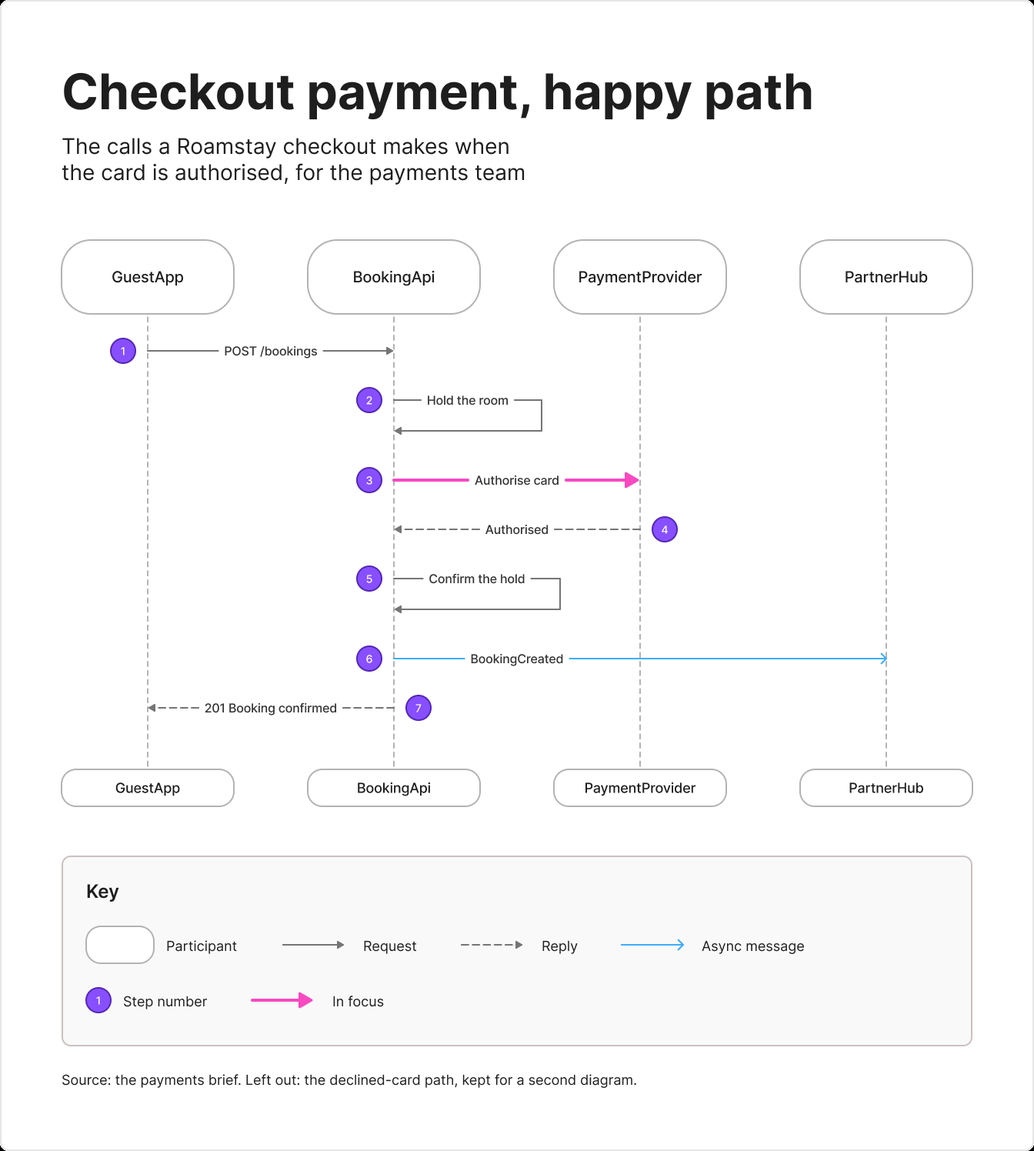
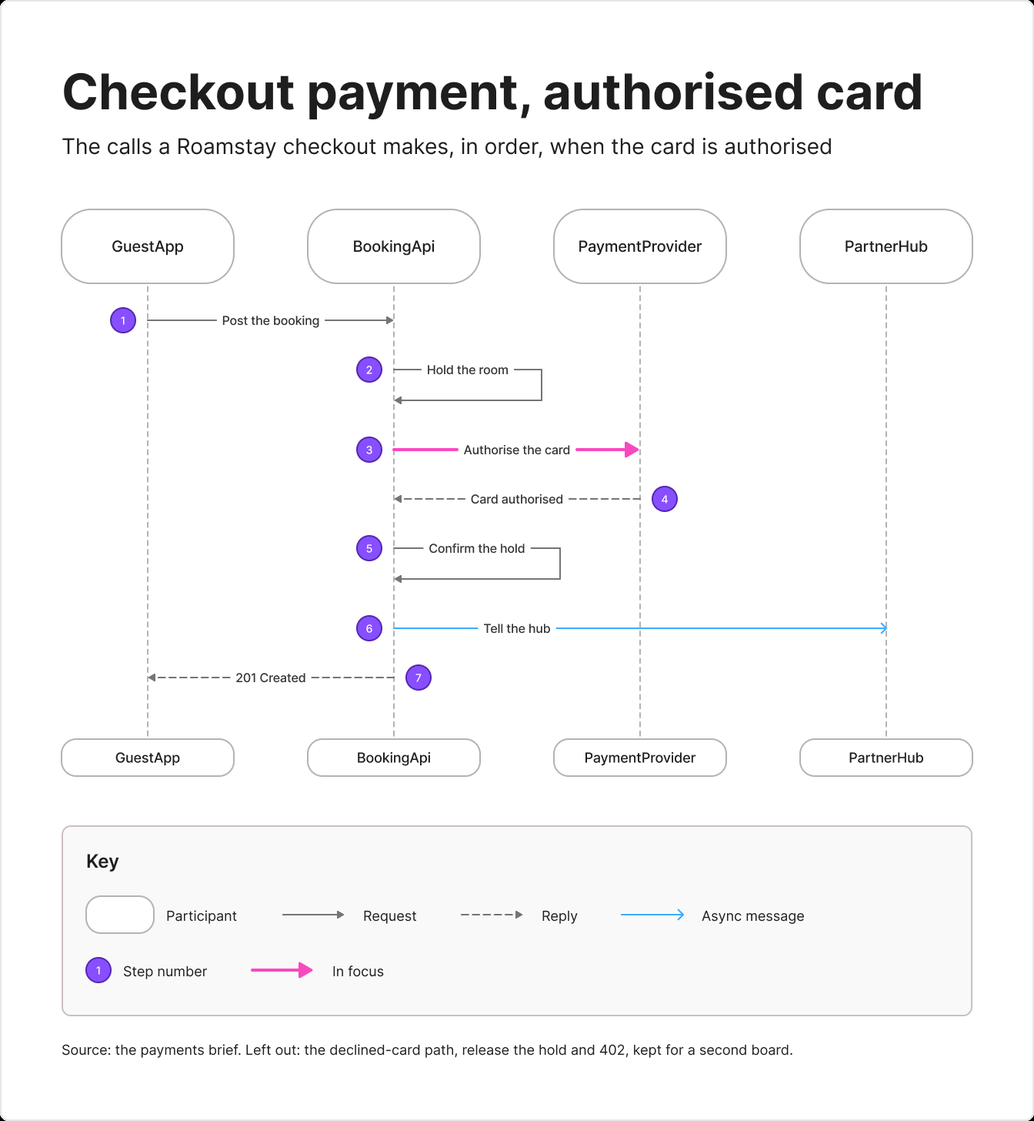
docs(sk-create-figjam): show v1.0.6.0 boards in the gallery
The gallery now shows the best board of each type that Claude Sonnet
5.5 high drew on v1.0.6.0 in the rerun, plus the dense flow, each
captioned with its scenario, model and score. The process and state
images come from failing runs, because no board of either type passed,
and their captions say why each run failed. The existing-board image
stays, because the rerun's FJ-032 board scored lower.

An audit of every skill doc against v1.0.6.0 found five stale lines,
now fixed with their Project copies in the same change:

- the gantt arrow runs from a bar's right end onto the next bar's
  left end
- the state example plans its composite section as the first glance
- the Quick line sends the filled rows as the playback
- the rubric counts the outline among the marks that read in greyscale
- the playbook's zone tint rule and its fallback count, now 24

Spec: 017-figjam-flow-generation/040-figjam-sonnet-run-findings
Commit-Id: 0000138

diff --git a/SYNC.md b/SYNC.md
@@ -105,4 +105,4 @@ No manifest, lock file or checksum ledger is kept. The old `claude-project.sync.
 - 2026-10-26 Claude Code, on the operator's request to note how CLI children reach Figma, changed `sk-create-figjam/references/flow-mode.md` Section 6 and pulled the vendored `mcp-figma` to v1.1.6.0, kernel unchanged at v1.2.5. The hosted-connection paragraph now names the native tool names Claude Code and Codex serve and the approval refusal `codex exec` gives until app tools are approved, and the vendored wiring guide gained the matching subsection. No Project-facing change is needed, because a Project reaches Figma through its own connector and never runs a CLI child, so Templates - Flow Mode keeps its connector wording. This is a maintenance record, not a review.
 - 2026-10-26 Claude Code, on the operator's request to act on the findings of the stopped Claude Opus 5.5 medium FigJam run, moved the hub and `sk-create-figjam` to v1.0.5.0, kernel unchanged at v1.2.5. `compose_board.py` now fills a model into a composer cut to that model's type, while `--template` with no model still prints the whole composer. The arrow primitives moved from Section 6 to Section 3 of `assets/compose-board.js`, so the code block of `Product Owner - Assets - Flow Board Composer.md` was read off `--template` again and keeps its 1,170 lines and 47,148 characters, and `claude project/README.md` needs no change. The Project keeps the whole composer because it fills the code by hand and cannot cut it. Mirrored by hand: `Product Owner - Templates - Flow Mode.md` takes the rule that a file the user named is a valid target, where the board goes in a new section and nothing on the file changes, and the rule that the playback and the gate each end their turn. The new clean-up step, which deletes the scratch folder the check and the composer wrote to, is not mirrored, because a Project writes no file. The playbook's hygiene exemption and the FJ-004 sandbox note stay in the skill, which alone carries the playbook. This is a maintenance record, not a review.
 - 2026-10-26 Claude Code, on the operator's request to bring the Project package into semantic and version sync with the skill sources after v1.0.5.0, moved the kernel H1 from v1.2.5 to v1.2.6 and the kernel from 70,483 to 70,710 bytes, with no skill source edited and no skill release cut. The v1.0.5.0 named-file target had reached Templates - Flow Mode but not the kernel, whose Flow write bullet still sent a new flow to a new file in the plan `whoami` names, while the system README promises a Project user a board in a FigJam file they named. That bullet now names a FigJam file the user named by its link or key as a target that takes the board as a new section beside what it holds, changes nothing already on it and needs no plan. The Flow Mode Delivery paragraph now says the replay and the gate each end their turn on their own question, the stop rule Templates - Flow Mode took in the same release. `claude project/README.md` names v1.2.6 in both version claims, and its smoke matrix gained the end-of-turn rule and a line for the named file. Both kernel edits sit inside the Section 9 residency statement whose home is Rules - Conciseness, so that Product Owner row in the Sync Loop declaration needs a resync before the residency check passes again. The system README still names kernel v1.2.5 in its versions table and in its Project section, and `USER-GUIDE.md` still says the gate names the new file, both left for a skill-side change while a live test run copies the system. Every other pair was checked against its source. The composer code block still equals `compose_board.py --template` byte for byte, and the four findings `pair_divergence.py` reports are the Project's own wording for a check a Project runs by hand. The kernel was not pasted into claude.ai and no review took place. This is a maintenance record, not a review: the operator's review of kernel v1.2.6 is pending.
-- 2026-10-26 Claude Code, on the operator's decision to act on every finding group of the graded Claude Sonnet 5.5 high FigJam run, moved the hub and `sk-create-figjam` to v1.0.6.0, `sk-product-owner` to v1.2.3.0 and the kernel H1 from v1.2.6 to v1.2.8 in two steps, the kernel from 70,710 to 70,925 bytes. The kernel's Flow Mode Delivery paragraph now says that when two types fit, or a type the user names does not fit the brief, the first reply asks that one question alone and the reader round follows its answer. It is the exception Templates - Flow Mode took in the same change, carried into the kernel because a rule binds best in the file passed as the system prompt. The sentence sits inside the Section 9 residency statement whose home is Rules - Conciseness, so that Product Owner row in the Sync Loop declaration needs a resync before the residency check passes again. Templates - Flow Mode took the Quick and accepted-answer threshold, the type question asked alone outside the round count, one recommended scope for a brief that spans several flows and an accepted recommendation that stays assumed. It also took the one-board cut in the ladder, the budget rule and the cut order. A reply with no route or no written board prints no `Read-back:` line. The seven Templates - Flow Type files took the one-board cut. Process also took its dashed-connector meaning and the sending step of a handoff. Sequence also took its async message and its failure path. Rules - Flow Quality Rubric took the accent on a revision or a pinned extension and the reason for the accent. Rules - Flow Style Guide and Assets - Flow Board Design took the outlines that keep kinds apart in greyscale, the `Leads to` key entry, the focus reason, the facing tint rule and each arrival's own point outside a merge dot, a choice or a milestone. Rules - Flow Style Guide also took the heaviest line in its Accent row. The design's outline paragraph points at the mirror's own floors section, Section 8. Templates - Flow Hybrid Workflow took the pin on a diamond's top vertex. Assets - Flow Templates took the type question asked alone, the accepted recommendation, the no-read-tool line scoped to a written board and the one-board cut in its split pattern. Assets - Flow Templates - Process, Assets - Flow Templates - Sequence and Examples - Flow - Process took their connector changes. System - Interactive Mode took the board command conflict and the Quick rows. The code block of Assets - Flow Board Composer was read off `compose_board.py --template` again. It is now 155 lines and 47,545 characters because compact lines join, so the whole-code test names the joined first line and the last line, the room is under 2,470 characters and the model notes add `solid`, `why` and a gantt's `edgeStyles`. `claude project/README.md` carries the same figures with a Knowledge file of 58,840 bytes, plus two smoke lines for the type question and the one-board cut. Not mirrored on purpose: the `mktemp -d` scratch folder, because a Project writes no file, and the playbook, the test driver and the grade records, which a Project does not carry. `USER-GUIDE.md` changed in usage lines the Connector Setup mirror does not carry, so that pair needs a reviewed record at the commit that lands it. A follow-up in the same release gave Templates - Flow Mode the one read of a file the user named before the gate, with any same-titled section named at the gate, gave Templates - Flow Type - State the composite section as the first glance and gave Rules - Flow Style Guide each heavy outline's weight. On the operator's yes the shared Human Voice Core card that five systems copy now counts a term kept with a reason only when it is used as the banned pattern and calls its always-cut edits edits. Rules - Human Voice Core took the card byte for byte, and the kernel's self-scan sentence calls the always-cut modifiers edits, not penalties, which is the second kernel step, v1.2.8. This is a maintenance record, not a review: the operator's review of kernel v1.2.8 is pending.
+- 2026-10-26 Claude Code, on the operator's decision to act on every finding group of the graded Claude Sonnet 5.5 high FigJam run, moved the hub and `sk-create-figjam` to v1.0.6.0, `sk-product-owner` to v1.2.3.0 and the kernel H1 from v1.2.6 to v1.2.8 in two steps, the kernel from 70,710 to 70,925 bytes. The kernel's Flow Mode Delivery paragraph now says that when two types fit, or a type the user names does not fit the brief, the first reply asks that one question alone and the reader round follows its answer. It is the exception Templates - Flow Mode took in the same change, carried into the kernel because a rule binds best in the file passed as the system prompt. The sentence sits inside the Section 9 residency statement whose home is Rules - Conciseness, so that Product Owner row in the Sync Loop declaration needs a resync before the residency check passes again. Templates - Flow Mode took the Quick and accepted-answer threshold, the type question asked alone outside the round count, one recommended scope for a brief that spans several flows and an accepted recommendation that stays assumed. It also took the one-board cut in the ladder, the budget rule and the cut order. A reply with no route or no written board prints no `Read-back:` line. The seven Templates - Flow Type files took the one-board cut. Process also took its dashed-connector meaning and the sending step of a handoff. Sequence also took its async message and its failure path. Rules - Flow Quality Rubric took the accent on a revision or a pinned extension and the reason for the accent. Rules - Flow Style Guide and Assets - Flow Board Design took the outlines that keep kinds apart in greyscale, the `Leads to` key entry, the focus reason, the facing tint rule and each arrival's own point outside a merge dot, a choice or a milestone. Rules - Flow Style Guide also took the heaviest line in its Accent row. The design's outline paragraph points at the mirror's own floors section, Section 8. Templates - Flow Hybrid Workflow took the pin on a diamond's top vertex. Assets - Flow Templates took the type question asked alone, the accepted recommendation, the no-read-tool line scoped to a written board and the one-board cut in its split pattern. Assets - Flow Templates - Process, Assets - Flow Templates - Sequence and Examples - Flow - Process took their connector changes. System - Interactive Mode took the board command conflict and the Quick rows. The code block of Assets - Flow Board Composer was read off `compose_board.py --template` again. It is now 155 lines and 47,545 characters because compact lines join, so the whole-code test names the joined first line and the last line, the room is under 2,470 characters and the model notes add `solid`, `why` and a gantt's `edgeStyles`. `claude project/README.md` carries the same figures with a Knowledge file of 58,840 bytes, plus two smoke lines for the type question and the one-board cut. Not mirrored on purpose: the `mktemp -d` scratch folder, because a Project writes no file, and the playbook, the test driver and the grade records, which a Project does not carry. `USER-GUIDE.md` changed in usage lines the Connector Setup mirror does not carry, so that pair needs a reviewed record at the commit that lands it. A follow-up in the same release gave Templates - Flow Mode the one read of a file the user named before the gate, with any same-titled section named at the gate, gave Templates - Flow Type - State the composite section as the first glance and gave Rules - Flow Style Guide each heavy outline's weight. On the operator's yes the shared Human Voice Core card that five systems copy now counts a term kept with a reason only when it is used as the banned pattern and calls its always-cut edits edits. Rules - Human Voice Core took the card byte for byte, and the kernel's self-scan sentence calls the always-cut modifiers edits, not penalties, which is the second kernel step, v1.2.8. A last accuracy pass after the rerun gave Templates - Flow Type - Gantt the arrow that runs from a bar's right end onto the top of the next bar's left end, Examples - Flow - State the composite section as its first glance and Rules - Flow Quality Rubric the outline among the marks that carry meaning in greyscale. This is a maintenance record, not a review: the operator's review of kernel v1.2.8 is pending.

diff --git a/sk-create-figjam/README.md b/sk-create-figjam/README.md
@@ -26,41 +26,41 @@ It draws seven types, each answering one reader question: a user flow, a laned p
 
 ## 2. GALLERY
 
-Real boards this packet composed on a fictional test file and rendered through the Figma REST API. Each type board is the best of three models in the 2026-10-25 model comparison, drawn in the shipped design file. The gantt, ER and last two boards were drawn again from their best run's model with the composer of the time. Every board predates v1.0.6.0, so none shows its greyscale outlines or its `Leads to` key entry. [`assets/screenshots/README.md`](assets/screenshots/README.md) names the playbook scenario, the model and the scorecard result behind each one.
+Real boards this packet composed on a fictional test file and rendered through the Figma REST API. Each type board and the dense flow is the best board of its type that Claude Sonnet 5.5 high drew with the v1.0.6.0 composer on 2026-10-26, in the shipped design file. They show the outlines that keep kinds apart in greyscale, and the user flow, process, architecture, state and gantt keys carry the `Leads to` entry. Only the existing-board image is older. [`assets/screenshots/README.md`](assets/screenshots/README.md) names the playbook scenario, the model and the scorecard result behind each one.
 
-**User flow.** The pink outline on the green Return confirmed with QR code goal is the first glance. Three zones run left to right, each decision is a yellow diamond with labelled exits and the orange Contact support pill shows where the flow leaves.
+**User flow.** The pink outline on the green Confirmation with QR code goal is the first glance. Three zones run left to right, Find the order, Request the return and Done. Each decision is a yellow diamond with labelled exits, the dashed orange Contact support pill shows where the flow leaves and Drop-off point and Courier pickup reach the goal from two sides.
 
 ![A user flow board for starting a return, with three zones and a highlighted goal](assets/screenshots/user-flow-board.png)
 
-**Process.** One lane per role, Customer, CS agent and Warehouse operator. The claims table is a violet cylinder. The pink fill and outline sit on Approve the claim, the handoff the request named, and the key names it In focus. The run that drew it fails its PASS line on its reply and its leftover temporary files, not on the board.
+**Process.** One lane per role, Customer, CS and Warehouse, each in its own tint. The pink outline sits on the Photo approved? decision, which books a pickup or asks for a second photo that loops back to it. The key names kinds and no team. The run that drew it fails its PASS line on Composition, because the green Refund released goal reads before the Approved exit and the loop the run planned as the second glance.
 
 ![A laned process board for a damaged-item refund across three roles](assets/screenshots/process-board.png)
 
-**Architecture.** Six zones run left to right from Clients through Edge, Services, Events and Stores to External. Sync Service carries the pink outline, the change stream is an orange queue and the blocks database a violet cylinder. Dashed edges mark the async and outside calls and the three live sockets run both ways, the same as the key.
+**Architecture.** Six zones run left to right from Clients through Edge, Services, Events and Stores to Outside. The sync-service node carries the pink outline and the key gives the reason, In focus: Writes every block change. The change stream is an orange queue and the blocks database a violet cylinder. Dashed edges mark the async and outside calls and the three live sockets run both ways, the same as the key.
 
 ![An architecture board for a block sync service across six zones](assets/screenshots/architecture-board.png)
 
-**Sequence.** The four participants are white and repeat at the top and the bottom, and numbered pins mark the seven steps beside each sender's lifeline. The pink heavy arrow on step 3, Authorise card, is the focus, replies are dashed and the async BookingCreated message is blue with an open head. The source line names the declined-card path as left out.
+**Sequence.** The four participants are white and repeat at the top and the bottom, and numbered pins mark the seven steps beside each sender's lifeline. The pink heavy arrow on step 3, Authorise the card, is the focus, replies are dashed and the async Tell the hub message is blue. Each message is in plain words, such as Post the booking, and the source line names the declined-card path as left out.
 
 ![A sequence board for a checkout payment with seven numbered steps](assets/screenshots/sequence-board.png)
 
-**State.** Two start dots lead in, Pay now to Payment pending and Pay at property straight to Confirmed, so both are blue first states. Payment pending carries the pink outline, Confirmed moves to Cancelled only on its guard, cancel [before deadline], and an unpaid booking expires after 30 minutes. Both gray final states run to an end dot, and the source line names what follows Confirmed as left out.
+**State.** Pending is the blue first state, and card authorised moves it into Confirmed, a composite zone that runs from Upcoming through check in to In stay. Completed, No-show and Cancelled are gray final states in one column, each with its end dot, and no transition crosses another. The run that drew it fails its PASS line on two points: no accent leads to the end states the request asked about, and its read-back line claimed a visual read that never ran.
 
-![A state board for a booking status with two entry points and a timeout](assets/screenshots/state-board.png)
+![A state board for a booking status with a composite Confirmed state and three final states](assets/screenshots/state-board.png)
 
-**ER.** A Guest side zone and a Partner side zone keep the two halves apart. Each entity lists its PK, FK and UK columns with types. Each line names the relationship with its cardinality and carries the matching crow's-foot mark at both ends. Booking carries the pink outline.
+**ER.** A Guest side zone and a Partner side zone keep the two halves apart. Each entity lists its PK and FK columns. Each line names the relationship with its cardinality and carries the matching crow's-foot mark at both ends. Booking carries the pink outline. The board shows key columns only, because the run had no schema note.
 
 ![An ER board with six entities split into guest and partner zones](assets/screenshots/er-board.png)
 
-**Gantt.** A weekly date axis runs across the top and Design, Build and Launch are tinted zones. Each bar shows its length, the critical integration week carries the pink outline and a yellow diamond marks the release on 21 December. An arrow runs from each bar to the work that waits on it. Each arrow drops into the middle of the bar that waits, so the design arrow crosses the end of Sync engine, which ends on the day it drops. The source line names the platform left out.
+**Gantt.** A weekly date axis runs across the top and Design, Build and Rollout are tinted zones. Each bar shows its length, the critical bars carry a heavy outline, the integration week carries the pink outline and a yellow diamond marks the release on 21 December. An arrow runs from each bar's right end onto the top of the work that waits on it, and two arrowheads crowd into Desktop and iOS integration. The source line names Android as left out.
 
 ![A gantt board for a launch plan with three phases and a release milestone](assets/screenshots/gantt-board.png)
 
-**Written onto an existing board.** In FJ-032 this state diagram was added to a board that already held content, which the write left in place. The overview shows the new section only. Completed carries the pink outline as the first glance this time, because the gate planned it first.
+**Written onto an existing board.** In FJ-032 this state diagram was added to a board that already held content, which the write left in place. The overview shows the new section only. Completed carries the pink outline as the first glance this time, because the gate planned it first. The board predates v1.0.6.0, because the rerun's FJ-032 board scored 20 and failed on Composition.
 
 ![A state board for a booking lifecycle written onto a board with existing content](assets/screenshots/state-on-existing-board.png)
 
-**Dense flow at the node budget.** Nine nodes and two decisions with five labelled exits, No, Yes, Higher, Lower and Same, and no connector crossing another. The pink outline sits on the three-way price decision and the key shows the same diamond.
+**Dense flow at the node budget.** Nine nodes and two decisions with five labelled exits, No, Yes, Higher, Lower and Same, and no connector crossing another. The pink outline sits on the three-way New price? decision and the key gives the reason, the only three-way choice. The run that drew it fails its PASS line on its reply, which opened on a cleanup line, not on the board.
 
 ![A dense user flow board for changing booking dates with a three-way decision](assets/screenshots/dense-flow-board.png)
 

diff --git a/sk-create-figjam/assets/screenshots/README.md b/sk-create-figjam/assets/screenshots/README.md
@@ -5,7 +5,7 @@ trigger_phrases:
   - "figjam board screenshots"
   - "figjam gallery"
   - "sk-create-figjam examples images"
-version: 1.0.4.0
+version: 1.0.5.0
 ---
 
 # sk-create-figjam - Board Screenshots
@@ -18,21 +18,21 @@ version: 1.0.4.0
 
 The skill composed every board here on a fictional test file, with invented brands such as Roamstay, Loomlist and Fernhouse. Each board was then rendered through the Figma REST API as an overview image with its longest edge at 2048 px or less. Each one was graded on the 22-point board scorecard in [`../../manual-testing-playbook/manual-testing-playbook.md`](../../manual-testing-playbook/manual-testing-playbook.md).
 
-The seven type boards come from the [three-model comparison](../../../benchmark/reports/2026-10-25--manual-testing-playbook--figjam-model-comparison/README.md), which ran each board-quality scenario on DeepSeek V4.1 Flash Max, GLM 5.3 Flash Max and SWE 2 Max with the design file `../figjam-design.md`. Each image is the best of the three: the most of the 16 points the two zooms score, then the highest total, then a pass, then the grader's rank. Four images were drawn again on 2026-10-26 from the model their best run checked, with the v1.0.4.0 composer and the shipped design file. The gantt and ER boards now show the dependency arrows and the end marks the run's composer lacked, and the last two boards came from earlier runs drawn before the design file. Each caption keeps the score its run gave the original board, and no grader scored the redraws. On 2026-10-26 one fresh judge also compared each type image with the best boards GPT 6 Luna, Claude Opus 5.5 low and Claude Opus 5.5 medium drew that day. Only the state image changed.
+The seven type boards and the dense flow come from the [model comparison run](../../../benchmark/reports/2026-10-25--manual-testing-playbook--figjam-model-comparison/README.md). On 2026-10-26 Claude Sonnet 5.5 high ran again the 31 scenarios its first run did not pass, plus FJ-022, FJ-023 and FJ-028 for the gallery, with the v1.0.6.0 composer and the design file `../figjam-design.md`. One Opus grader scored every board on the 22-point scorecard, and skeptics and an adjudicator checked each verdict. One judge then picked the best board of each type: the type shown most fully and the faster read first, then the total. The process and state images come from failing runs, because no board of either type passed. Each caption names the scenario, the model and the score, and says why a failing run failed. The existing-board image is older, because the rerun's FJ-032 board scored lower.
 
 ---
 
 ## 2. IMAGES
 
-- [`user-flow-board.png`](user-flow-board.png): user flow, from [FJ-022](../../manual-testing-playbook/board-quality/user-flow-board-quality.md), GLM 5.3 Flash Max, 22 of 22
-- [`process-board.png`](process-board.png): laned process, from [FJ-023](../../manual-testing-playbook/board-quality/process-board-quality.md), SWE 2 Max, 20 of 22. The board takes all 16 points of the two zooms, the most of any FJ-023 board. The run itself fails its PASS line on two points that are not the drawing: its reply opens with prose before the board URL and it left its model and compose files in the temporary folder
-- [`architecture-board.png`](architecture-board.png): architecture, from [FJ-024](../../manual-testing-playbook/board-quality/architecture-board-quality.md), SWE 2 Max, 22 of 22
-- [`sequence-board.png`](sequence-board.png): sequence, from [FJ-025](../../manual-testing-playbook/board-quality/sequence-board-quality.md), GLM 5.3 Flash Max, 22 of 22
-- [`state-board.png`](state-board.png): state diagram, from [FJR-005](../../manual-testing-playbook/intra-routing-recall/route-state.md), Claude Opus 5.5 medium, not graded. A fresh judge scored it 13 of the 14 points a viewer sees against 10 for GLM 5.3 Flash Max's FJ-026 board, which it replaced, because no exit crosses another and one focus leads the eye. It shows no composite zone, which only the existing-board image below still does
-- [`er-board.png`](er-board.png): ER diagram, from [FJ-027](../../manual-testing-playbook/board-quality/er-board-quality.md), SWE 2 Max, 22 of 22, drawn again with its end marks
-- [`gantt-board.png`](gantt-board.png): gantt chart, from [FJ-028](../../manual-testing-playbook/board-quality/gantt-board-quality.md), GLM 5.3 Flash Max, 22 of 22, drawn again with its dependency arrows
-- [`state-on-existing-board.png`](state-on-existing-board.png): state diagram written onto a board that already held content, from [FJ-032](../../manual-testing-playbook/board-creation/existing-board-with-content.md) on its second recheck, 22 of 22, drawn again in the design file
-- [`dense-flow-board.png`](dense-flow-board.png): user flow at the 9-node budget with a three-way decision, from [FJ-036](../../manual-testing-playbook/board-creation/dense-flow-at-budget.md) on its recheck, 21 of 22. Drawn again in the design file after two changes the current check asks for: the one accent stays on the price decision and the credit label is shortened to Difference back as credit (automatic). The point the recheck lost is the Pick a room line joining the Yes line just before the price decision, which the redraw keeps
+- [`user-flow-board.png`](user-flow-board.png): user flow, from [FJ-022](../../manual-testing-playbook/board-quality/user-flow-board-quality.md), Claude Sonnet 5.5 high, 21 of 22, PASS. The point lost is Legibility, where Order detail (Start a return) wraps inside its parenthesis
+- [`process-board.png`](process-board.png): laned process, from [FJ-034](../../manual-testing-playbook/board-creation/colour-every-team-restraint.md), Claude Sonnet 5.5 high, 21 of 22, FAIL. The run fails on Composition, because the green Refund released goal reads before the Approved exit and the second-photo loop it planned as the second glance. The FJ-023 board scored 18
+- [`architecture-board.png`](architecture-board.png): architecture, from [FJ-024](../../manual-testing-playbook/board-quality/architecture-board-quality.md), Claude Sonnet 5.5 high, 22 of 22, PASS
+- [`sequence-board.png`](sequence-board.png): sequence, from [FJ-025](../../manual-testing-playbook/board-quality/sequence-board-quality.md), Claude Sonnet 5.5 high, 22 of 22, PASS
+- [`state-board.png`](state-board.png): state diagram, from [FJ-026](../../manual-testing-playbook/board-quality/state-board-quality.md), Claude Sonnet 5.5 high, 20 of 22, FAIL. All three state boards the rerun drew scored 20, and this one reads fastest, with a composite Confirmed state and no crossing. The run fails on two points: no accent leads to the end states the request asked about, and its read-back line claimed a visual read that never ran
+- [`er-board.png`](er-board.png): ER diagram, from [FJ-027](../../manual-testing-playbook/board-quality/er-board-quality.md), Claude Sonnet 5.5 high, 21 of 22, PASS. The point lost is Clarity, because the reader missed that a booking reserves one room. The board carries key columns only, because the driver never supplied the schema note
+- [`gantt-board.png`](gantt-board.png): gantt chart, from [FJ-028](../../manual-testing-playbook/board-quality/gantt-board-quality.md), Claude Sonnet 5.5 high, 20 of 22, PASS. It loses one Shared trunks point where two arrowheads crowd into Desktop and iOS integration, and one Clarity point because the reader named the critical chain instead of Integration
+- [`state-on-existing-board.png`](state-on-existing-board.png): state diagram written onto a board that already held content, from [FJ-032](../../manual-testing-playbook/board-creation/existing-board-with-content.md) on its second recheck, 22 of 22, drawn again in the design file before v1.0.6.0. The rerun's FJ-032 board scored 20 and failed on Composition, so this image stays
+- [`dense-flow-board.png`](dense-flow-board.png): user flow at the 9-node budget with a three-way decision, from [FJ-036](../../manual-testing-playbook/board-creation/dense-flow-at-budget.md), Claude Sonnet 5.5 high, 21 of 22, FAIL. The drawing keeps both Composition points with no crossing, and the run fails only on its reply, which opened on a cleanup line instead of the board URL. The Picks a room and Yes lines still arrive close together at the price decision, as they did on the older board
 
 ---
 

diff --git a/sk-create-figjam/manual-testing-playbook/manual-testing-playbook.md b/sk-create-figjam/manual-testing-playbook/manual-testing-playbook.md
@@ -94,7 +94,7 @@ The operator writes down the glance order the model plans before the first scree
 
 **Marks the key does not list.** The key holds one sample per kind, line and arrow the board uses and nothing else, so three marks are absent from it by design: a zone or lane tint, a note pin and a legend sticky. A grader scores them against `sk-create-figjam/references/style-guide.md` and the active design in `sk-create-figjam/assets/figjam-design.md`, and never counts their absence from the key as a Signal fault.
 
-- **A zone or lane tint** is a light section tint drawn from the active design's zone cycle, blue, orange, teal, yellow and violet as shipped. A zone skips a tint any kind inside it draws and the tint of the zone before it, so it never hides its members and neighbouring zones read apart. It means nothing, so two zones in different tints are not two meanings
+- **A zone or lane tint** is a light section tint drawn from the active design's zone cycle, blue, orange, teal, yellow and violet as shipped. A zone skips a tint any kind inside it draws and the tint of any zone it faces along its row or its column, so it never hides its members and neighbouring zones read apart. It means nothing, so two zones in different tints are not two meanings
 - **A note pin** is the violet preset with a white digit, and a sequence's step pins are the exception because the key names them `Step number`
 - **A legend sticky** takes one colour from the sticky palette, one colour per legend by default
 
@@ -1281,7 +1281,7 @@ Desired user-visible outcome: No FigJam leaf loads for a ticket about a board
 | Test Module | Coverage | Playbook Overlap |
 |---|---|---|
 | `sk-create-figjam/scripts/flow_check.py --self-test` | One planted defect per rule, every template, example, Project mirror and palette row | FJ-004, FJ-005, FJ-006, FJ-014, FJ-015, FJ-016 |
-| `sk-create-figjam/scripts/compose_board.py --self-test` | Every shipped model composes under the design, the design file names every token and keeps every floor, a restyle reaches the board and fourteen broken designs fall back with named warnings | FJ-044, FJ-045 |
+| `sk-create-figjam/scripts/compose_board.py --self-test` | Every shipped model composes under the design, the design file names every token and keeps every floor, a restyle reaches the board and 24 broken designs fall back with named warnings | FJ-044, FJ-045 |
 | `benchmark/gates/check_hub.py` | Hub stage one on every gold row, including each routing prompt here | FJR-001 to FJR-007, FJH-001, FJN-001, FJ-020, FJ-021, FJ-037 |
 | `validate-playbook-topology.cjs` | Every routing scenario's leaves against `leaf-manifest.json` | FJR-001 to FJR-007, FJH-001, FJN-001 |
 

diff --git a/sk-create-figjam/changelog/v1.0.6.0.md b/sk-create-figjam/changelog/v1.0.6.0.md
@@ -40,7 +40,9 @@ Claude Sonnet 5.5 high ran all 54 FigJam scenarios on v1.0.5.0 and closed at 23 
 - The scratch folder is made with `mktemp -d`, and its path stays in the conversation
 - The compact composer joins short lines, so `--template` prints 155 lines and 47,545 characters, up from 47,148. The Project's whole-composer call leaves about 2,470 characters for the model and the `THEME` line. `compose_board.py --self-test` runs 1,240 checks and `flow_check.py --self-test` runs 163
 - The playbook's eight routing scenarios grep a `TYPE_SIGNALS` row that exists, and FJ-005, FJ-011, FJ-033 and FJ-037 now ask for what the skill sets. Section 3 defines meaning lost in greyscale and keeps the title block out of the glance order. A `driver:` key marks seven scenarios `operator-only` or `new-file`. FJ-030 accepts a pin on a diamond's top vertex, and FJ-041 expects the reader round after the type answer when the run opens one
+- The screenshot gallery shows boards Claude Sonnet 5.5 high drew on v1.0.6.0, one per type plus the dense flow, each captioned with its scenario, model and score. The process and state images come from failing runs, because no board of either type passed
+- The gantt type reference, the state example, the Quick line in `SKILL.md`, the rubric's greyscale line and two playbook lines now say what v1.0.6.0 does, and the playbook counts 24 broken designs that fall back with a warning
 
 ## Upgrade
 
-In the claude.ai Project, replace Assets - Flow Board Composer, Assets - Flow Board Design, Assets - Flow Templates, Assets - Flow Templates - Process, Assets - Flow Templates - Sequence, Examples - Flow - Process, Rules - Flow Quality Rubric, Rules - Flow Style Guide, Templates - Flow Hybrid Workflow, Templates - Flow Mode and the seven Templates - Flow Type files. Paste kernel v1.2.8, whose Flow Mode Delivery paragraph has the first reply ask the type question alone when two types fit. A board drawn before the upgrade keeps its old outlines and key until it is composed again.
+In the claude.ai Project, replace Assets - Flow Board Composer, Assets - Flow Board Design, Assets - Flow Templates, Assets - Flow Templates - Process, Assets - Flow Templates - Sequence, Examples - Flow - Process, Examples - Flow - State, Rules - Flow Quality Rubric, Rules - Flow Style Guide, Templates - Flow Hybrid Workflow, Templates - Flow Mode and the seven Templates - Flow Type files. Paste kernel v1.2.8, whose Flow Mode Delivery paragraph has the first reply ask the type question alone when two types fit. A board drawn before the upgrade keeps its old outlines and key until it is composed again.

diff --git a/sk-create-figjam/assets/examples/state-roamstay-booking.md b/sk-create-figjam/assets/examples/state-roamstay-booking.md
@@ -6,7 +6,7 @@ importance_tier: normal
 trigger_phrases:
   - "state example"
   - "roamstay booking states"
-version: 1.0.2.0
+version: 1.0.3.0
 ---
 
 # Example - State - Roamstay Booking
@@ -108,8 +108,8 @@ The gate is its own reply, sent after the playback's answer. Its one question as
 ```text
 Question: which statuses exist and what moves a booking between them?
 Outcome: support can read every booking status and spot the statuses a booking ends in.
-First glance: the end states, Completed, Cancelled and NoShow, drawn in light gray.
-Second glance: the events that lead into them, check out, guest cancels and missed check-in.
+First glance: Confirmed, the composite section the overview shows first.
+Second glance: the end states Completed and Cancelled and NoShow, each in light gray with its heavy outline.
 Last glance: Pending, where every booking starts.
 Plan: Roamstay Product. File: a new FigJam file named "Booking status", created in that plan.
 Writes: one composed board, 7 states and 12 transitions, the end states in light gray, with a title, a key and a source line, at the Laptop reading distance.
@@ -125,6 +125,6 @@ Write it?
 
 ```text
 <board URL>
-Read-back: 7 of 7 states, 12 of 12 transitions, 6 of 6 transitions labelled, first glance: the end states
+Read-back: 7 of 7 states, 12 of 12 transitions, 6 of 6 transitions labelled, first glance: Confirmed
 HVR self-scan: 0 hard blockers. Fixed: none. Kept with reason: none.
 ```

diff --git a/claude project/knowledge/Product Owner - Templates - Flow Type - Gantt.md b/claude project/knowledge/Product Owner - Templates - Flow Type - Gantt.md
@@ -67,7 +67,7 @@ Over budget, collapse each phase to one bar in an overview chart and draw one ch
 
 ## 5. COLOUR, ZONES AND NOTES
 
-None in the model. The tags colour the bars and the sections are the zones. The composer draws each `after` as an arrow from the end of the bar it names into the bar that waits on it, so a reader sees what must finish first without reading the dates. Each arrow drops into the middle of the top of the bar that waits, so it can cross the end of a bar in between whose end falls on that date. Read an arrow from the bar its tail leaves. A note on a date goes on through Templates - Flow Hybrid Workflow. A `%% focus: <id or name>` line may name the one task or milestone the first glance lands on. It is a comment, so the model stays styleless.
+None in the model. The tags colour the bars and the sections are the zones. The composer draws each `after` as an arrow from the end of the bar it names into the bar that waits on it, so a reader sees what must finish first without reading the dates. Each arrow runs from the right end of the bar it names onto the top of the left end of the bar that waits, and an arrow into a milestone drops onto the diamond's top. Read an arrow from the bar its tail leaves. A note on a date goes on through Templates - Flow Hybrid Workflow. A `%% focus: <id or name>` line may name the one task or milestone the first glance lands on. It is a comment, so the model stays styleless.
 
 ---
 

diff --git a/sk-create-figjam/references/types/gantt.md b/sk-create-figjam/references/types/gantt.md
@@ -84,7 +84,7 @@ Over budget, collapse each phase to one bar in an overview chart and draw one ch
 
 ## 5. COLOUR, ZONES AND NOTES
 
-None in the model. The tags colour the bars and the sections are the zones. The composer draws each `after` as an arrow from the end of the bar it names into the bar that waits on it, so a reader sees what must finish first without reading the dates. Each arrow drops into the middle of the top of the bar that waits, so it can cross the end of a bar in between whose end falls on that date. Read an arrow from the bar its tail leaves. A note on a date goes on through `references/hybrid-workflow.md`. A `%% focus: <id or name>` line may name the one task or milestone the first glance lands on. It is a comment, so the model stays styleless.
+None in the model. The tags colour the bars and the sections are the zones. The composer draws each `after` as an arrow from the end of the bar it names into the bar that waits on it, so a reader sees what must finish first without reading the dates. Each arrow runs from the right end of the bar it names onto the top of the left end of the bar that waits, and an arrow into a milestone drops onto the diamond's top. Read an arrow from the bar its tail leaves. A note on a date goes on through `references/hybrid-workflow.md`. A `%% focus: <id or name>` line may name the one task or milestone the first glance lands on. It is a comment, so the model stays styleless.
 
 ---
 

diff --git a/claude project/knowledge/Product Owner - Examples - Flow - State.md b/claude project/knowledge/Product Owner - Examples - Flow - State.md
@@ -100,8 +100,8 @@ The gate is its own reply, sent after the playback's answer. Its one question as
 ```text
 Question: which statuses exist and what moves a booking between them?
 Outcome: support can read every booking status and spot the statuses a booking ends in.
-First glance: the end states, Completed, Cancelled and NoShow, drawn in light gray.
-Second glance: the events that lead into them, check out, guest cancels and missed check-in.
+First glance: Confirmed, the composite section the overview shows first.
+Second glance: the end states Completed and Cancelled and NoShow, each in light gray with its heavy outline.
 Last glance: Pending, where every booking starts.
 Plan: Roamstay Product. File: a new FigJam file named "Booking status", created in that plan.
 Writes: one composed board, 7 states and 12 transitions, the end states in light gray, with a title, a key and a source line, at the Laptop reading distance.
@@ -117,6 +117,6 @@ Write it?
 
 ```text
 <board URL>
-Read-back: 7 of 7 states, 12 of 12 transitions, 6 of 6 transitions labelled, first glance: the end states
+Read-back: 7 of 7 states, 12 of 12 transitions, 6 of 6 transitions labelled, first glance: Confirmed
 HVR self-scan: 0 hard blockers. Fixed: none. Kept with reason: none.
 ```

diff --git a/sk-create-figjam/references/quality-rubric.md b/sk-create-figjam/references/quality-rubric.md
@@ -68,7 +68,7 @@ Those three lines travel into the gate, so the marked node is chosen from them a
 - [ ] When the model gives a reason for the accent as `%% focus: <id> because <reason>`, as `references/style-guide.md` Section 3 sets out, the key's `In focus` entry carries that reason, so a reader who asks why one node is marked finds the answer on the board
 - [ ] No title repeats the focal claim, so one idea carries one focal object. Where the title already states the claim, the marked node carries the evidence, the consequence or the next move
 - [ ] The title names what the reader is looking at, the subtitle says in one sentence who reads it and why, and the source line names the sources and what was left out
-- [ ] Shape and label carry the meaning on their own, so the diagram reads in greyscale
+- [ ] Shape and outline and label carry the meaning without colour, so the diagram reads in greyscale
 - [ ] The key the composer draws names every kind, line and arrow the board shows and nothing else, and no note adds a second key beside it
 - [ ] Every zone carries a name a reader can see, and zones group what belongs together rather than marking a position
 - [ ] Every label uses the product's or the source's own words. Proper nouns are never renamed

diff --git a/claude project/knowledge/Product Owner - Rules - Flow Quality Rubric.md b/claude project/knowledge/Product Owner - Rules - Flow Quality Rubric.md
@@ -50,7 +50,7 @@ Those three lines travel into the gate, so the marked node is chosen from them a
 - [ ] When the model gives a reason for the accent as `%% focus: <id> because <reason>`, as Rules - Flow Style Guide Section 3 sets out, the key's `In focus` entry carries that reason, so a reader who asks why one node is marked finds the answer on the board
 - [ ] No title repeats the focal claim, so one idea carries one focal object. Where the title already states the claim, the marked node carries the evidence, the consequence or the next move
 - [ ] The title names what the reader is looking at. The subtitle says in one sentence who reads it and why. The source line names the sources and what was left out
-- [ ] Shape and label carry the meaning on their own, so the diagram reads in greyscale
+- [ ] Shape and outline and label carry the meaning without colour, so the diagram reads in greyscale
 - [ ] The key the composer draws names every kind, line and arrow the board shows and nothing else, and no note adds a second key beside it
 - [ ] Every zone carries a name a reader can see, and zones group what belongs together rather than marking a position
 - [ ] Every label uses the product's or the source's own words. Proper nouns are never renamed

diff --git a/README.md b/README.md
@@ -385,7 +385,7 @@ When two types fit, such as an architecture and a sequence for the same system, 
 - **A source line.** Under the key, naming the sources the board was drawn from and what was left out
 - **Your team's look.** `sk-create-figjam/assets/figjam-design.md` holds the design every board is drawn in: which FigJam colour means what, the first-glance accent, the type sizes, the lines, the zone tints and the words on the key. Edit it once and every board composed after it follows. An edit that would weaken contrast or compete with the pink outline falls back to the shipped value, and the reply names it on a `Finding:` line
 
-A real board the packet composed on a fictional test file. The pink outline on the green Return confirmed with QR code goal is the first glance, three zones run left to right and each decision is a yellow diamond with labelled exits:
+A real board the packet composed on a fictional test file. The pink outline on the green Confirmation with QR code goal is the first glance, three zones run left to right and each decision is a yellow diamond with labelled exits:
 
 ![A user flow board for starting a return, with three zones and a highlighted goal](sk-create-figjam/assets/screenshots/user-flow-board.png)
 
